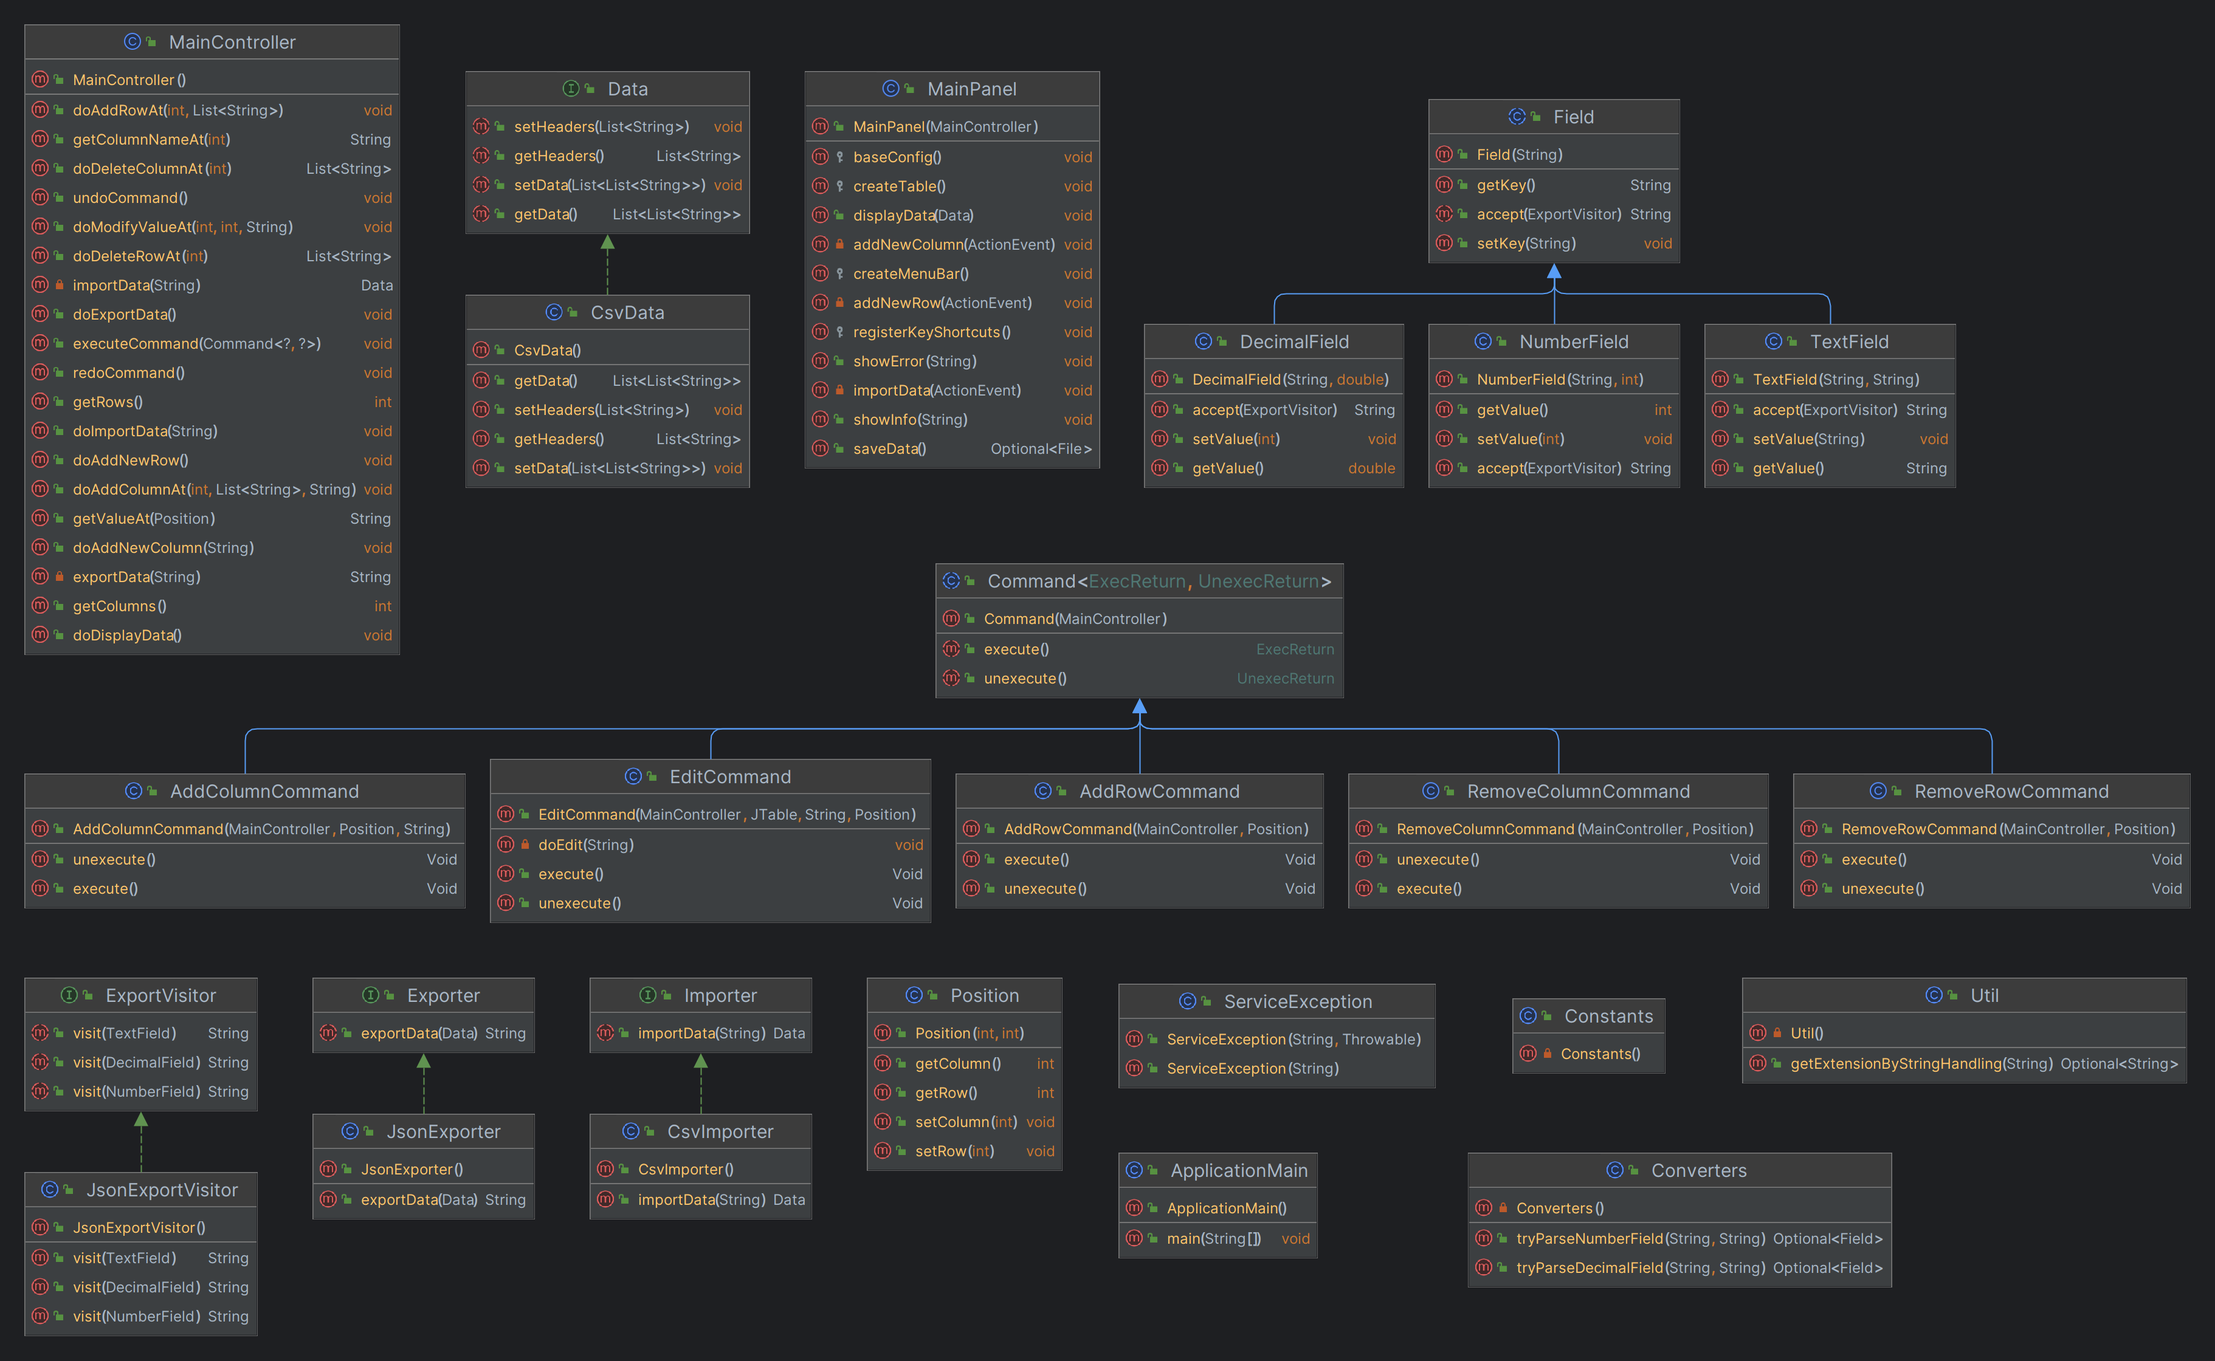
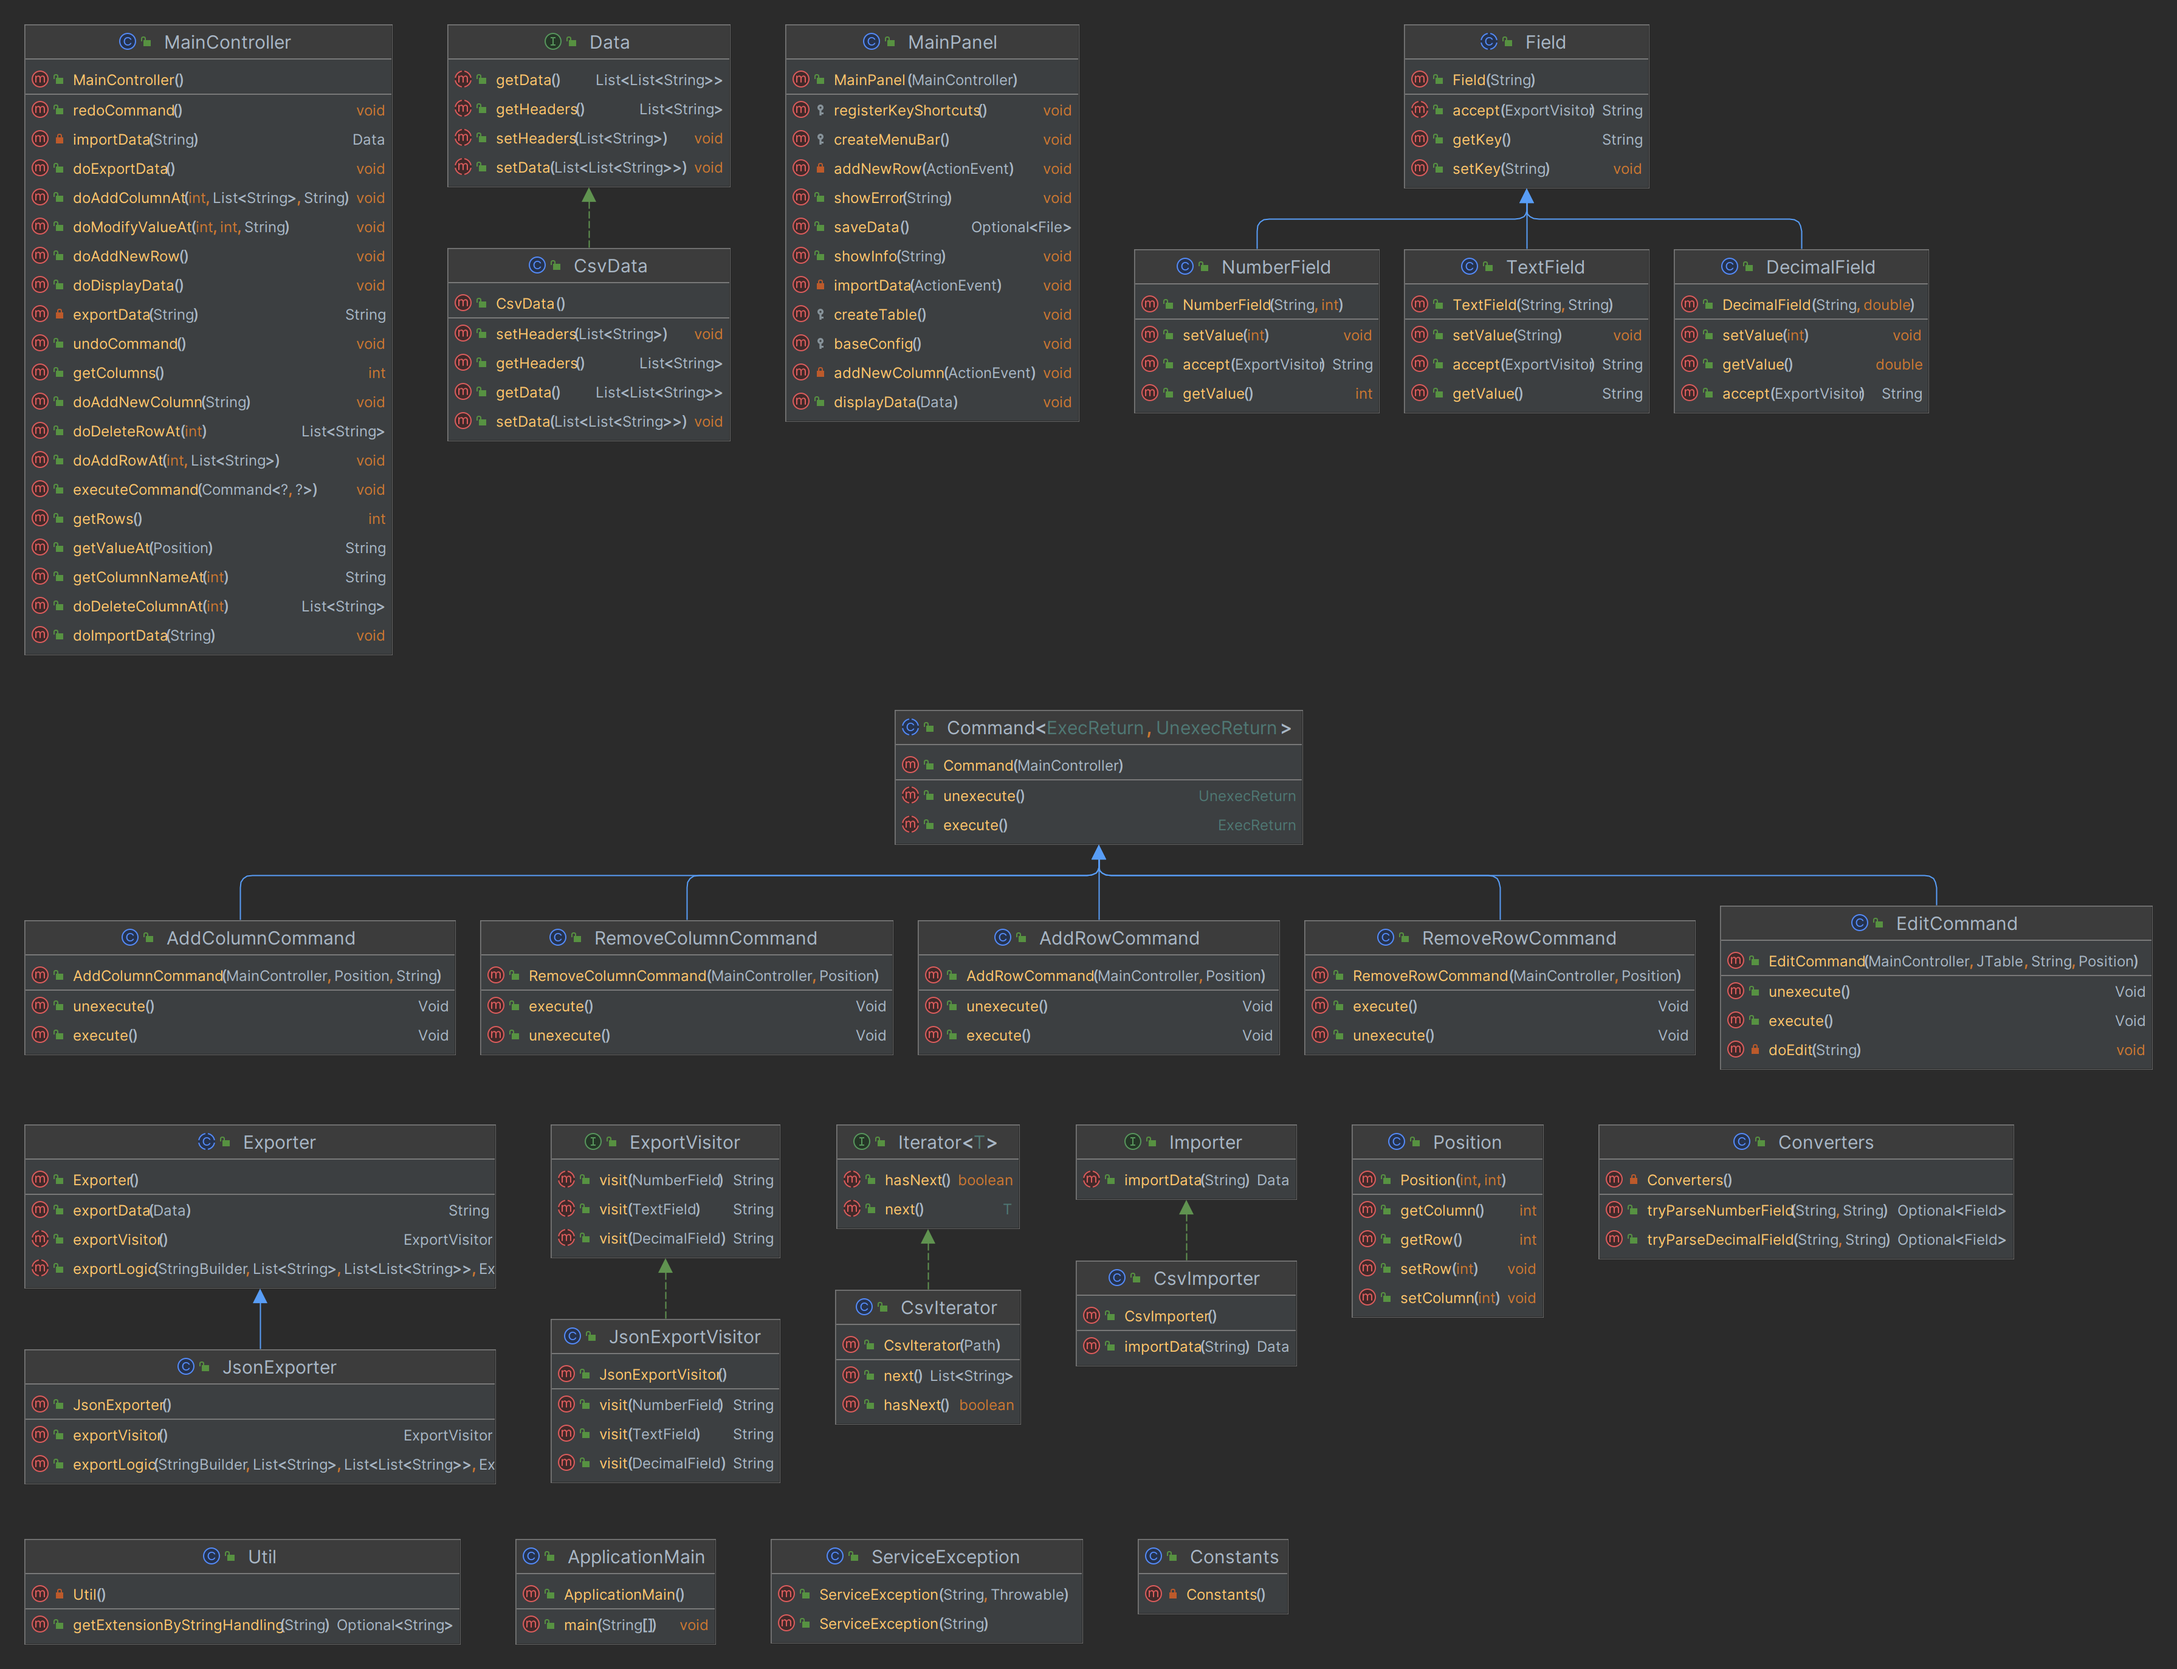
Change theme, and update diagram

diff --git a/src/edu/gof/visitor/ApplicationMain.java b/src/edu/gof/visitor/ApplicationMain.java
@@ -1,6 +1,8 @@
 package edu.gof.visitor;
 
+import com.formdev.flatlaf.FlatIntelliJLaf;
 import com.formdev.flatlaf.FlatLightLaf;
+import com.formdev.flatlaf.IntelliJTheme;
 import edu.gof.visitor.controller.MainController;
 
 import java.sql.Timestamp;
@@ -12,7 +14,7 @@ public class ApplicationMain {
 
     public static void main(String[] args) {
         log.info(String.format("Application startup at %s", new Timestamp(System.currentTimeMillis())));
-        FlatLightLaf.setup();
+        FlatIntelliJLaf.setup(); // look-and-feel
         new MainController();
     }
 
